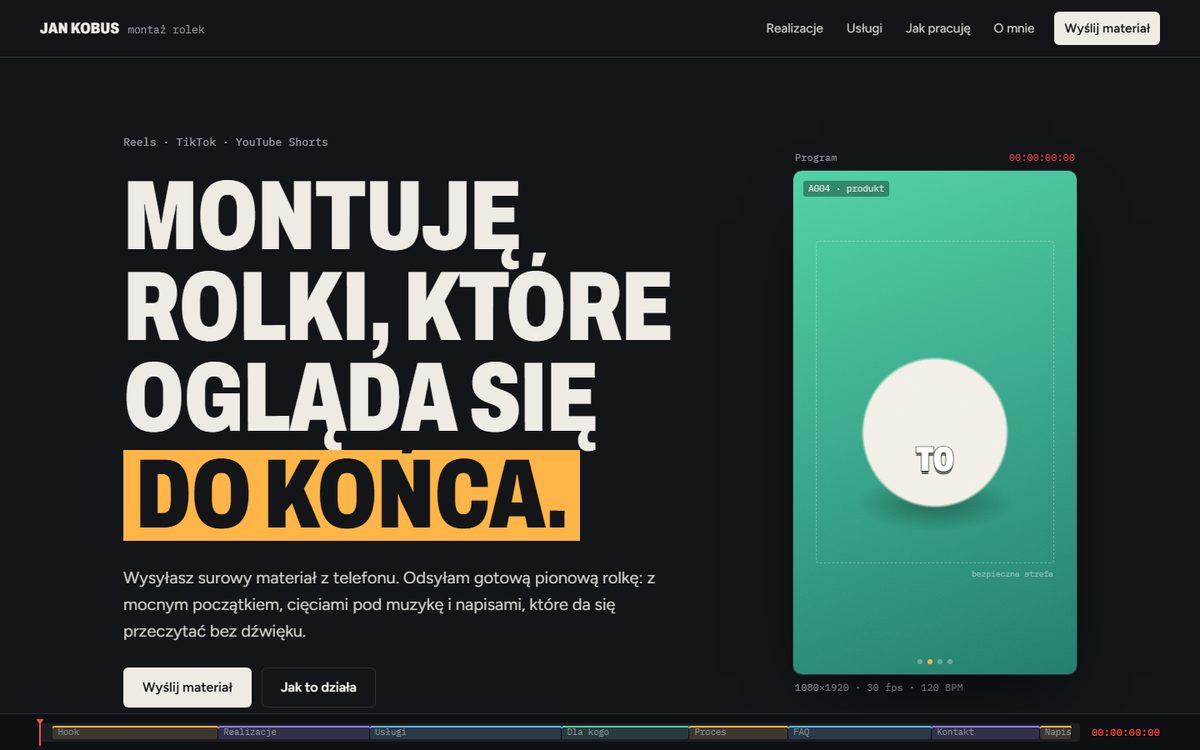
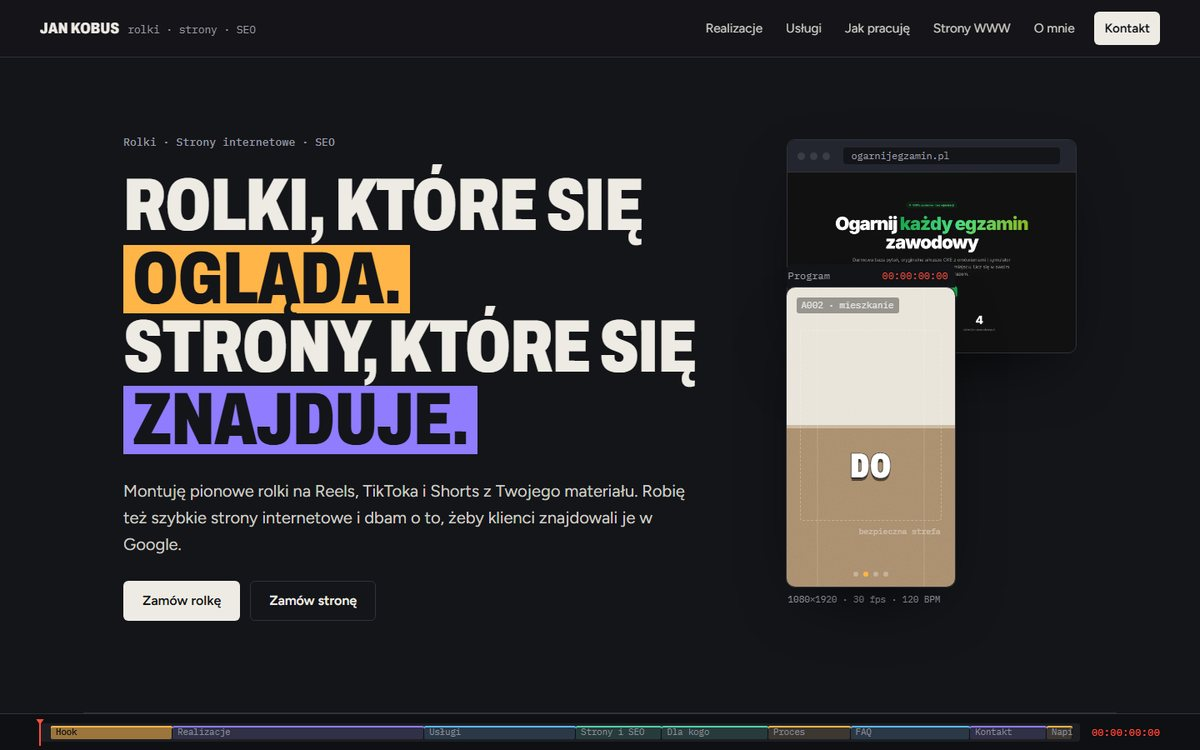
Homepage: reels + websites hero, sites with results, new screenshots and og-jk.png
Completes 86c73e8, which only contained the og-rolki.png removal.

diff --git a/src/styles/rolki.css b/src/styles/rolki.css
@@ -523,12 +523,11 @@ h3 { font: 600 1.15rem/1.3 var(--f-body); }
 .page-head .actions { margin-top: 6px; }
 .sites { display: grid; grid-template-columns: repeat(2, minmax(0, 1fr)); gap: clamp(16px, 2.4vw, 32px); }
 @media (max-width: 860px) { .sites { grid-template-columns: 1fr; } }
-.site { display: grid; gap: 16px; text-decoration: none; color: inherit; }
+.site { display: grid; gap: 16px; align-content: start; text-decoration: none; color: inherit; }
 .site-frame {
   border-radius: 10px; overflow: hidden; background: var(--panel);
   border: 1px solid var(--line); transition: border-color .2s, transform .2s;
 }
-.site:hover .site-frame, .site:focus-visible .site-frame { border-color: var(--v1); transform: translateY(-2px); }
 .site-bar {
   display: flex; align-items: center; gap: 6px; padding: 9px 12px;
   background: var(--panel-2); border-bottom: 1px solid var(--line);
@@ -550,3 +549,50 @@ h3 { font: 600 1.15rem/1.3 var(--f-body); }
 .also-list p { color: #c3c1ba; }
 .also-side { display: grid; gap: 18px; }
 .also-side .site-frame { pointer-events: none; }
+
+/* hero: rolki + strony */
+.display-hero { font-size: clamp(2.6rem, 6.2vw, 5.6rem); }
+.display .cut-alt { background: var(--v1); }
+.hero-visual { position: relative; justify-self: end; width: min(100%, 520px); padding-bottom: 8px; }
+.hero-browser {
+  position: absolute; top: 0; right: 0; width: 100%;
+  box-shadow: 0 30px 80px -30px rgba(0,0,0,.8);
+}
+.hero-browser img { width: 100%; height: auto; display: block; }
+.hero-visual .monitor { position: relative; z-index: 1; justify-self: auto; width: 58%; margin-top: 150px; }
+.hero-visual .monitor-meta { white-space: nowrap; font-size: .68rem; }
+.hero-visual .monitor-bar { background: var(--bg); padding: 8px 8px 8px 2px; border-radius: 6px 6px 0 0; }
+@media (max-width: 860px) {
+  .hero-visual { justify-self: center; width: min(78vw, 300px); }
+  .hero-browser { display: none; }
+  .hero-visual .monitor { width: 100%; margin-top: 0; }
+}
+
+/* realizacje: podtytuły rolki / strony */
+.sub-h {
+  display: flex; align-items: center; gap: 10px; margin: 0 0 18px;
+  font: 500 .85rem/1 var(--f-mono); text-transform: uppercase; letter-spacing: .06em; color: var(--muted);
+}
+.sub-h-gap { margin-top: clamp(40px, 6vw, 72px); }
+.track-dot { width: 10px; height: 10px; border-radius: 2px; background: var(--v1); }
+.track-dot.track-a1 { background: var(--a1); }
+
+/* wyniki strony */
+.site-link { text-decoration: none; color: inherit; display: block; }
+.site-link:hover .site-frame, .site-link:focus-visible .site-frame { border-color: var(--v1); transform: translateY(-2px); }
+.site-info h3 a { text-decoration: none; }
+.site-info h3 a:hover { text-decoration: underline; }
+.site-stats {
+  margin: 8px 0 0; display: grid; grid-template-columns: repeat(3, minmax(0, 1fr));
+  gap: 1px; background: var(--line); border: 1px solid var(--line); border-radius: 8px; overflow: hidden;
+}
+.site-stats div { background: var(--panel); padding: 12px 14px; display: flex; flex-direction: column-reverse; gap: 4px; }
+.site-stats dt { font-size: .82rem; color: var(--muted); line-height: 1.3; }
+.site-stats dd { margin: 0; font: 800 1.6rem/1 var(--f-display); font-stretch: 80%; color: var(--a1); }
+.site-note { font: 400 .72rem/1.4 var(--f-mono) !important; color: #6c6f79 !important; }
+@media (max-width: 520px) { .site-stats { grid-template-columns: 1fr; } }
+
+/* strony i SEO na głównej */
+.also-cols { grid-template-columns: repeat(3, minmax(0, 1fr)); display: grid; }
+@media (max-width: 860px) { .also-cols { grid-template-columns: 1fr; } }
+.also-actions { margin-top: 24px; }

diff --git a/src/data/sites.ts b/src/data/sites.ts
@@ -1,0 +1,40 @@
+// Realizacje stron internetowych: strona główna (sekcja Realizacje) i /strony-internetowe/.
+// Zrzuty ekranu: public/web/<img>.webp + .jpg, 1200x750.
+
+export interface SiteStat {
+  value: string;
+  label: string;
+}
+
+export interface Site {
+  name: string;
+  url: string;
+  img: string;
+  tag: string;
+  text: string;
+  stats?: SiteStat[];
+  statsNote?: string;
+}
+
+export const sites: Site[] = [
+  {
+    name: 'ogarnijegzamin.pl',
+    url: 'https://ogarnijegzamin.pl/',
+    img: '/web/ogarnijegzamin',
+    tag: 'Projekt własny · aplikacja webowa',
+    text: 'Platforma do nauki do egzaminów zawodowych: baza pytań z omówieniami, arkusze CKE i symulatory egzaminu praktycznego. Projekt, wykonanie i SEO.',
+    stats: [
+      { value: '~3,8 tys.', label: 'odwiedzających dziennie' },
+      { value: '777', label: 'zarejestrowanych użytkowników' },
+      { value: '906 tys.+', label: 'rozwiązanych pytań' },
+    ],
+    statsNote: 'Odwiedzający: Cloudflare Analytics, czerwiec 2026. Użytkownicy i pytania: panel strony, październik 2026.',
+  },
+  {
+    name: 'jankobus.com',
+    url: 'https://jankobus.com/',
+    img: '/web/jankobus',
+    tag: 'Strona-wizytówka',
+    text: 'Strona, na której jesteś. Szybka strona statyczna, hosting na Cloudflare, dane strukturalne dla Google i podgląd linku pod Facebooka i Messengera.',
+  },
+];
